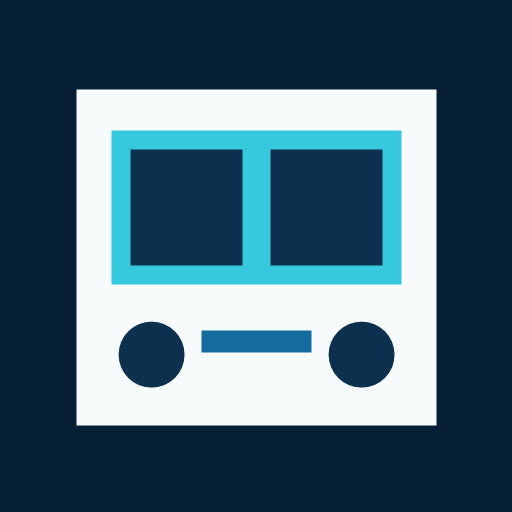
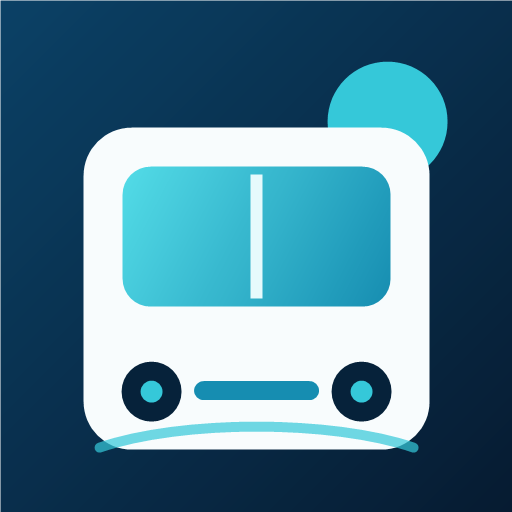
Improve bus app branding and link preview

diff --git a/bus.html b/bus.html
@@ -1,0 +1,38 @@
+<!doctype html>
+<html lang="zh-HK">
+  <head>
+    <meta charset="UTF-8" />
+    <meta name="viewport" content="width=device-width, initial-scale=1.0, viewport-fit=cover" />
+    <title>加州花園居民巴士</title>
+    <meta name="description" content="加州花園及加州豪園居民巴士：元朗線、上水線表定時間及香港時間倒數。" />
+    <meta name="theme-color" content="#06223a" />
+    <meta name="application-name" content="加州花園居民巴士" />
+
+    <meta property="og:type" content="website" />
+    <meta property="og:locale" content="zh_HK" />
+    <meta property="og:site_name" content="加州花園居民巴士" />
+    <meta property="og:title" content="加州花園居民巴士" />
+    <meta property="og:description" content="元朗線及上水線時間表｜下一班表定時間｜香港時間倒數" />
+    <meta property="og:url" content="https://vite-react-lksfjaoiwepa34-5259s-projects.vercel.app/bus" />
+    <meta property="og:image" content="https://vite-react-lksfjaoiwepa34-5259s-projects.vercel.app/bus-share-card.png" />
+    <meta property="og:image:width" content="1200" />
+    <meta property="og:image:height" content="630" />
+    <meta property="og:image:alt" content="加州花園居民巴士圖示" />
+
+    <meta name="twitter:card" content="summary_large_image" />
+    <meta name="twitter:title" content="加州花園居民巴士" />
+    <meta name="twitter:description" content="元朗線及上水線時間表｜下一班表定時間｜香港時間倒數" />
+    <meta name="twitter:image" content="https://vite-react-lksfjaoiwepa34-5259s-projects.vercel.app/bus-share-card.png" />
+
+    <link rel="icon" type="image/svg+xml" href="/bus-icon.svg" />
+    <link rel="manifest" href="/bus-manifest.webmanifest" />
+    <link rel="apple-touch-icon" href="/bus-icon-180.png" />
+    <meta name="apple-mobile-web-app-capable" content="yes" />
+    <meta name="apple-mobile-web-app-status-bar-style" content="black-translucent" />
+    <meta name="apple-mobile-web-app-title" content="居民巴士" />
+  </head>
+  <body>
+    <div id="root"></div>
+    <script type="module" src="/src/main.tsx"></script>
+  </body>
+</html>

diff --git a/src/bus/BusApp.tsx b/src/bus/BusApp.tsx
@@ -40,7 +40,7 @@ function loadPreferences(): Preferences {
 
 function updateBusDocumentMetadata() {
   document.documentElement.lang = 'zh-HK'
-  document.title = '加州花園居民巴士時間表'
+  document.title = '加州花園居民巴士'
 
   const description = document.querySelector<HTMLMetaElement>('meta[name="description"]')
     ?? document.head.appendChild(document.createElement('meta'))

diff --git a/vite.config.ts b/vite.config.ts
@@ -4,6 +4,14 @@ import { VitePWA } from 'vite-plugin-pwa'
 
 // https://vitejs.dev/config/
 export default defineConfig({
+  build: {
+    rollupOptions: {
+      input: {
+        main: 'index.html',
+        bus: 'bus.html',
+      },
+    },
+  },
   plugins: [
     react(),
     VitePWA({
